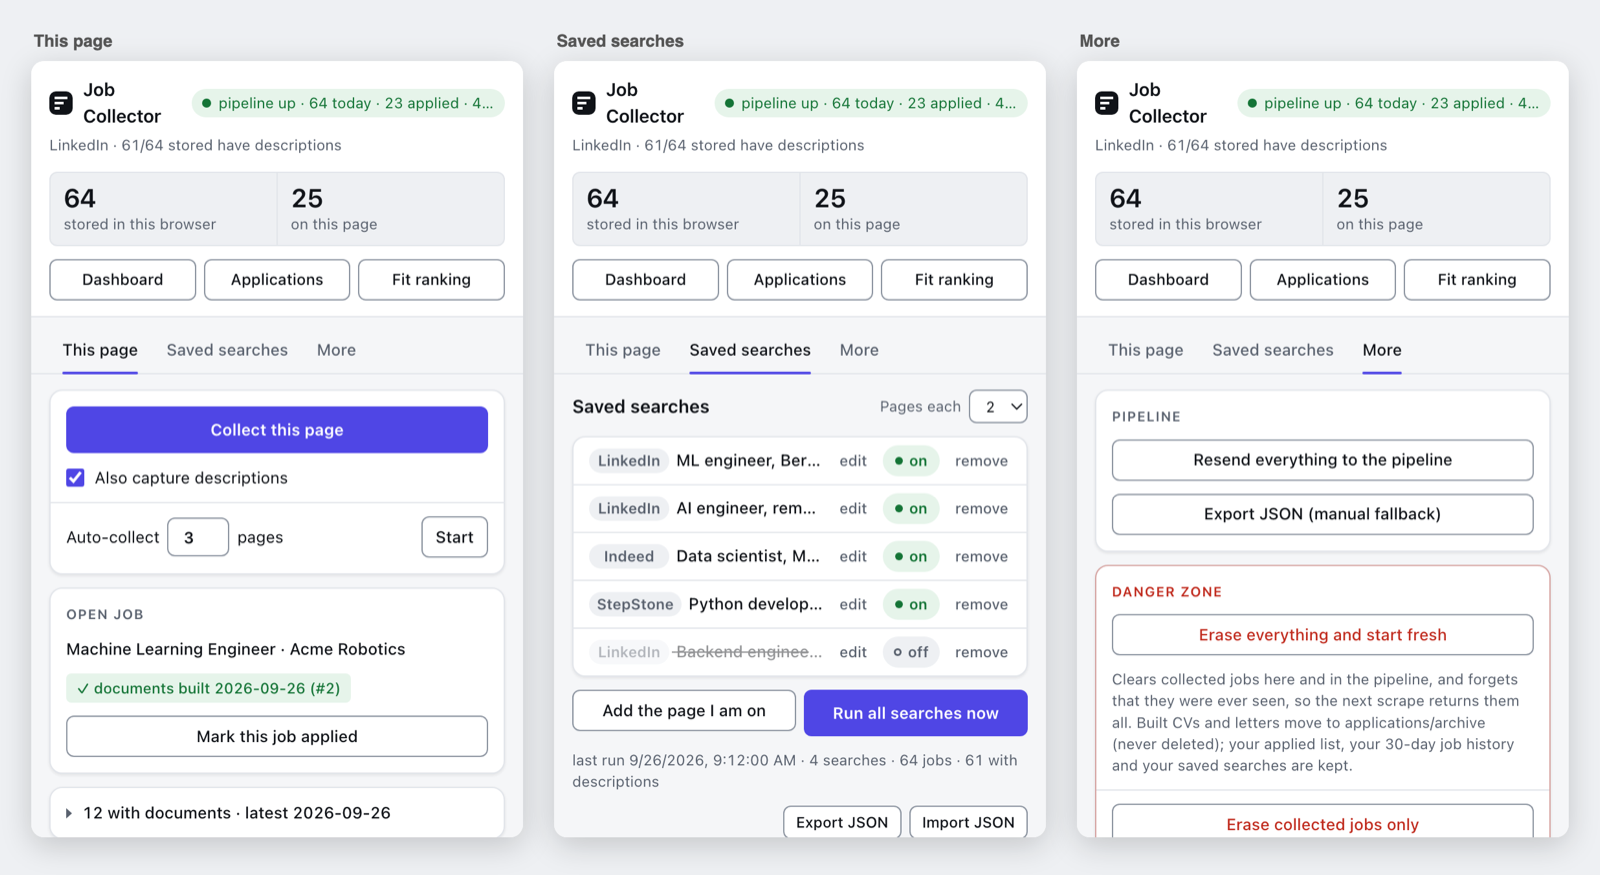
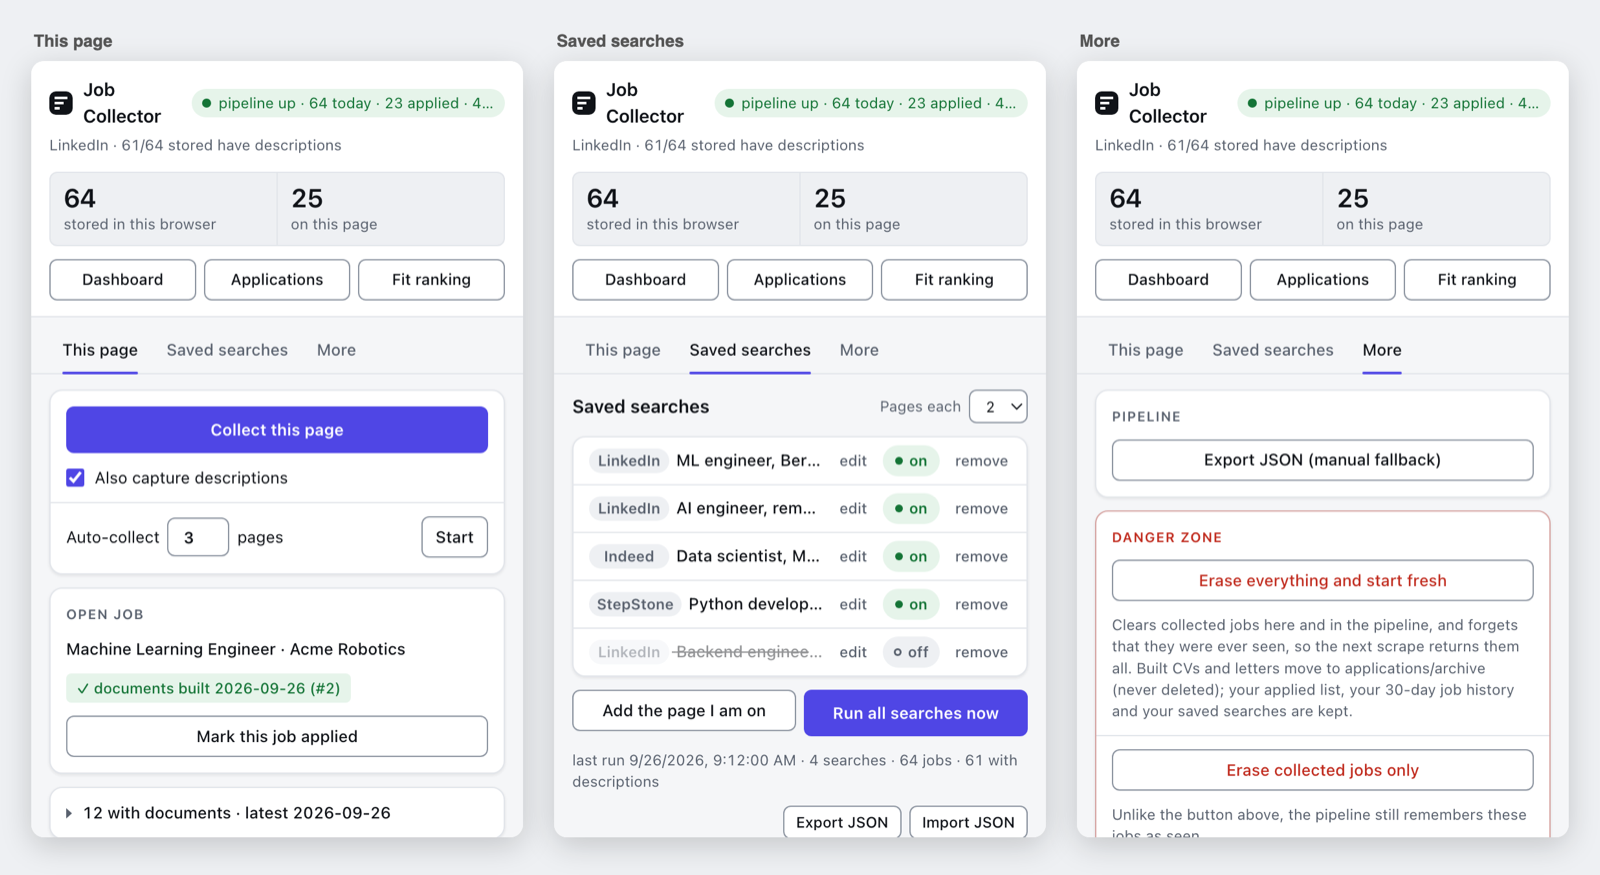
Extension: send unsent jobs automatically, drop the Resend button
"Resend everything to the pipeline" dates from when pushing jobs was a manual
step. Runs already send everything at their start and end. The one case the
button still covered was a single-page collect while the pipeline was off:
those jobs stayed in the browser until the next run.

Now a failed push marks the jobs as unsent. The background check sends
them, along with any queued applied marks, as soon as the pipeline answers
again. That check now also runs when no search is saved. The button, its
README line and its screenshot are removed.

Changed region(s): [[0.6875, 0.4937, 0.9688, 0.9566]]

diff --git a/extension/background.js b/extension/background.js
@@ -39,8 +39,11 @@ chrome.runtime.onMessage.addListener((msg, _sender, sendResponse) => {
     return true;
   }
   if (msg?.type === "bridge:push") {
-    call("/ingest", { jobs: msg.jobs || [] }).then((r) => {
+    call("/ingest", { jobs: msg.jobs || [] }).then(async (r) => {
       if (r.ok) chrome.storage.local.set({ lastPush: { at: Date.now(), ...r } });
+      // The jobs are kept here either way; remember that the pipeline has not
+      // seen them, and checkTrigger sends everything once it answers again.
+      else await chrome.storage.local.set({ unsentJobs: true });
       sendResponse(r);
     });
     return true;
@@ -346,7 +349,8 @@ async function flushToBridge(where) {
     const all = Object.values(jobs);
     if (!all.length) return;
     const r = await call("/ingest", { jobs: all });
-    if (!r.ok) console.warn(`[job collector] flush (${where}) failed: ${r.error}`);
+    if (r.ok) await chrome.storage.local.remove("unsentJobs");
+    else console.warn(`[job collector] flush (${where}) failed: ${r.error}`);
   } catch { /* never let a flush stop a run */ }
 }
 
@@ -781,6 +785,14 @@ async function checkTrigger() {
   if (checking) return;
   checking = true;
   try {
+    // Anything the pipeline missed while it was off (jobs collected, jobs
+    // marked applied) goes to it as soon as it answers again. This replaced
+    // the popup's "Resend everything" button, 28 September 2026: nobody
+    // should have to remember to press it.
+    const { unsentJobs, pendingApplied = [] } =
+      await chrome.storage.local.get(["unsentJobs", "pendingApplied"]);
+    if ((unsentJobs || pendingApplied.length) && (await call("/status", null, 4000)).ok)
+      await flushToBridge("bridge is back");
     const s = await getSched();
     if (!s.searches.length) return;
     // A stuck running flag blocks every future run, silently and forever.
@@ -794,10 +806,6 @@ async function checkTrigger() {
     // changed. Otherwise the launcher has nothing to open on a fresh profile.
     call("/searches", { searches: activeSearches(s.searches), all: s.searches }).catch(() => {});
     const r = await call("/trigger", null, 4000);
-    if (r.ok) {
-      const { pendingApplied = [] } = await chrome.storage.local.get("pendingApplied");
-      if (pendingApplied.length) await flushToBridge("bridge is back");
-    }
     if (!r.ok || !r.run) return;
 
     /*

diff --git a/extension/popup.js b/extension/popup.js
@@ -117,7 +117,6 @@ async function refresh() {
   $("stored").textContent = all.length;
   $("export").disabled = all.length === 0;
   $("clear").disabled = all.length === 0;
-  $("resend").disabled = all.length === 0;
   refreshBridge();
 
   // An auto-collect keeps running after the popup closes (state is in
@@ -201,7 +200,7 @@ chrome.runtime.onMessage.addListener((m) => {
 // for when a run is misbehaving, and disabling them while it runs is what left
 // you with no way out mid-collect.
 function busy(on) {
-  for (const id of ["collect", "auto", "export", "resend", "applied"])
+  for (const id of ["collect", "auto", "export", "applied"])
     $(id).disabled = on;
 }
 
@@ -348,19 +347,6 @@ $("applied").onclick = async () => {
                           : `pipeline offline — not recorded`)
             : r.added ? `marked applied · ${r.total} total · ${r.matches} still ranked`
                       : `already on the applied list`);
-  refresh();
-};
-
-// Everything collected while the bridge was down still lives in chrome.storage,
-// so one button is enough to catch the pipeline up rather than re-scraping.
-$("resend").onclick = async () => {
-  const { jobs = {} } = await chrome.storage.local.get("jobs");
-  const all = Object.values(jobs);
-  busy(true); msg(`sending ${all.length}…`);
-  const r = await bridge({ type: "bridge:push", jobs: all });
-  busy(false);
-  msg(!r?.ok ? `pipeline offline — ${START_HINT}, then retry`
-             : `sent ${all.length} · +${r.added} new · ${r.matches} ranked`);
   refresh();
 };
 

diff --git a/extension/popup.html b/extension/popup.html
@@ -518,7 +518,6 @@ ul.sched li button:nth-of-type(3):hover:not(:disabled){color:var(--bad);backgrou
     <section class="panel p-more" aria-label="More">
       <div class="group">
         <p class="group-title">Pipeline</p>
-        <button id="resend">Resend everything to the pipeline</button>
         <button id="export">Export JSON (manual fallback)</button>
       </div>
       <div class="group danger-zone">

diff --git a/README.md b/README.md
@@ -315,8 +315,6 @@ the popup says so, and the search opens without the exact city filter.
 
 ### More
 
-- **Resend everything to the pipeline**: sends every job this browser collected
-  again, for example if the pipeline was not running when you collected
 - **Export JSON (manual fallback)**: downloads the collected jobs as a file
 - **Erase everything and start fresh**: see [Where your files are](#where-your-files-are)
 - **Erase collected jobs only**: clears them here, while the pipeline still
